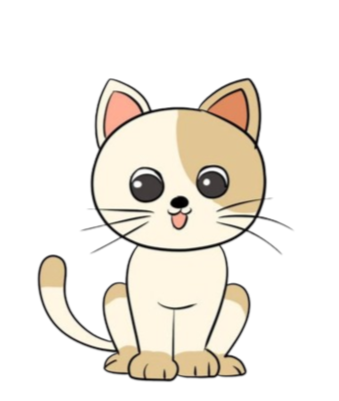
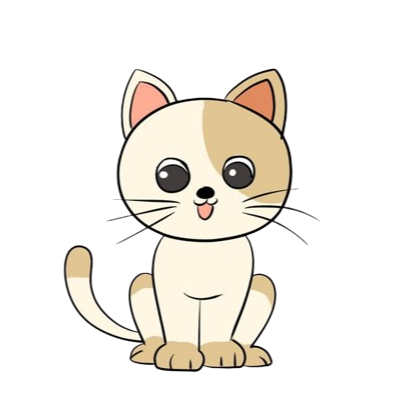
macem-macem

Changed region(s): [[0.0885, 0.1496, 0.8555, 0.9576], [0.236, 0.5686, 0.2655, 0.5985]]

diff --git a/Game/css/style.css b/Game/css/style.css
@@ -7,7 +7,7 @@ h3 {
   font-size: 50px;
   text-align: center;
   font-family: italic;
-  margin: 10px;
+  margin: 20px;
 }
 
 .menu{
@@ -19,21 +19,36 @@ h3 {
 
 .karakter1, .karakter2, .karakter3{
   border: 2px solid #fff;
-  border-radius: 8px;
   background: transparent;
-  margin: 20px 22px 5px 22px;
-
+  margin: 30px 25px 5px 22px;
   padding-bottom: 40px;
   text-align: center;
-  box-shadow: 0 0 10px #fff, 0 0 20px #8696FE;
+  box-shadow: 0 0 10px #fff, 10px 5px 5px 0px #01030e;
+  border-bottom-right-radius: 40px;
+  border-bottom-left-radius: 40px;
+  transition: transform;
+  background-image: url(../img/bg_karakter.jpg);
+  bac
 }
 
+.karakter1:hover{
+  transform: scale(1.1);
+}
+
+.karakter2:hover{
+  transform: scale(1.1);
+}
+
+.karakter3:hover{
+  transform: scale(1.1);
+}
 .karakter1 p, .karakter2 p, .karakter3 p{
   color: black;
   font-weight: 400;
-  font-size: 35px;
+  font-size: 30px;
   font-weight: bold;
   text-align: center;
+  margin-bottom: 15px;
 }
 .isi-karakter1, .isi-karakter2, .isi-karakter3{
   margin: 5px 0px 5px 0px;
@@ -41,8 +56,8 @@ h3 {
 
 .isi-karakter1 img,.isi-karakter2 img,
 .isi-karakter3 img {
-  width: 350px; /* Sesuaikan dengan ukuran yang diinginkan */
-  height: 350px; /* Sesuaikan dengan ukuran yang diinginkan */
+  width: 230px; /* Sesuaikan dengan ukuran yang diinginkan */
+  height: 140px; /* Sesuaikan dengan ukuran yang diinginkan */
 }
 
 .button {
@@ -52,12 +67,13 @@ h3 {
   border-radius: 17px;
   justify-content: center;
   align-items: center;
-  margin-left: 100px;
+  margin-left: 40px;
   margin-top: 10px;
   width: 150px;
   height: 40px;
   font-size: 18px;
   box-shadow: 2px 2px 4px rgba(139, 7, 115, 0.6), -2px -2px 4px rgba(41, 128, 185, 1);
+  text-decoration: none;
 }
 
 .button a {

diff --git a/Game/index.html b/Game/index.html
@@ -15,6 +15,7 @@
           <p>Mudah</p>
             <div class="isi-karakter1">
                 <img id="img-karakter1" src="img/tikus.png"><br>
+                <p>TIKUS</p>
             <a class="button" href="karakter1.html">Pilih</a>
             </div>
         </div>
@@ -22,6 +23,7 @@
           <p>Sedang</p>
             <div class="isi-karakter2">
                 <img id="img-karakter2" src="img/kucing.png"><br>
+                <p>KUCING </p>
                 <a class="button" href="karakter2.html">Pilih</a>
             </div>
         </div>
@@ -29,6 +31,7 @@
         <p>Sulit</p>
             <div class="isi-karakter3">
                 <img id="img-karakter3" src="img/kelinci.png"><br>
+                <p>KELINCI</p>
                 <a class="button" href="karakter3.html">Pilih</a>
             </div>
         </div> 

diff --git a/Game/css/style1.css b/Game/css/style1.css
@@ -13,6 +13,7 @@ body{
     text-align: center;
     font-family: italic;
     margin: 10px;
+    position: relative;
     
   }
   
@@ -126,5 +127,8 @@ body{
   }
 
   
-  
  
+
+
+
+  
